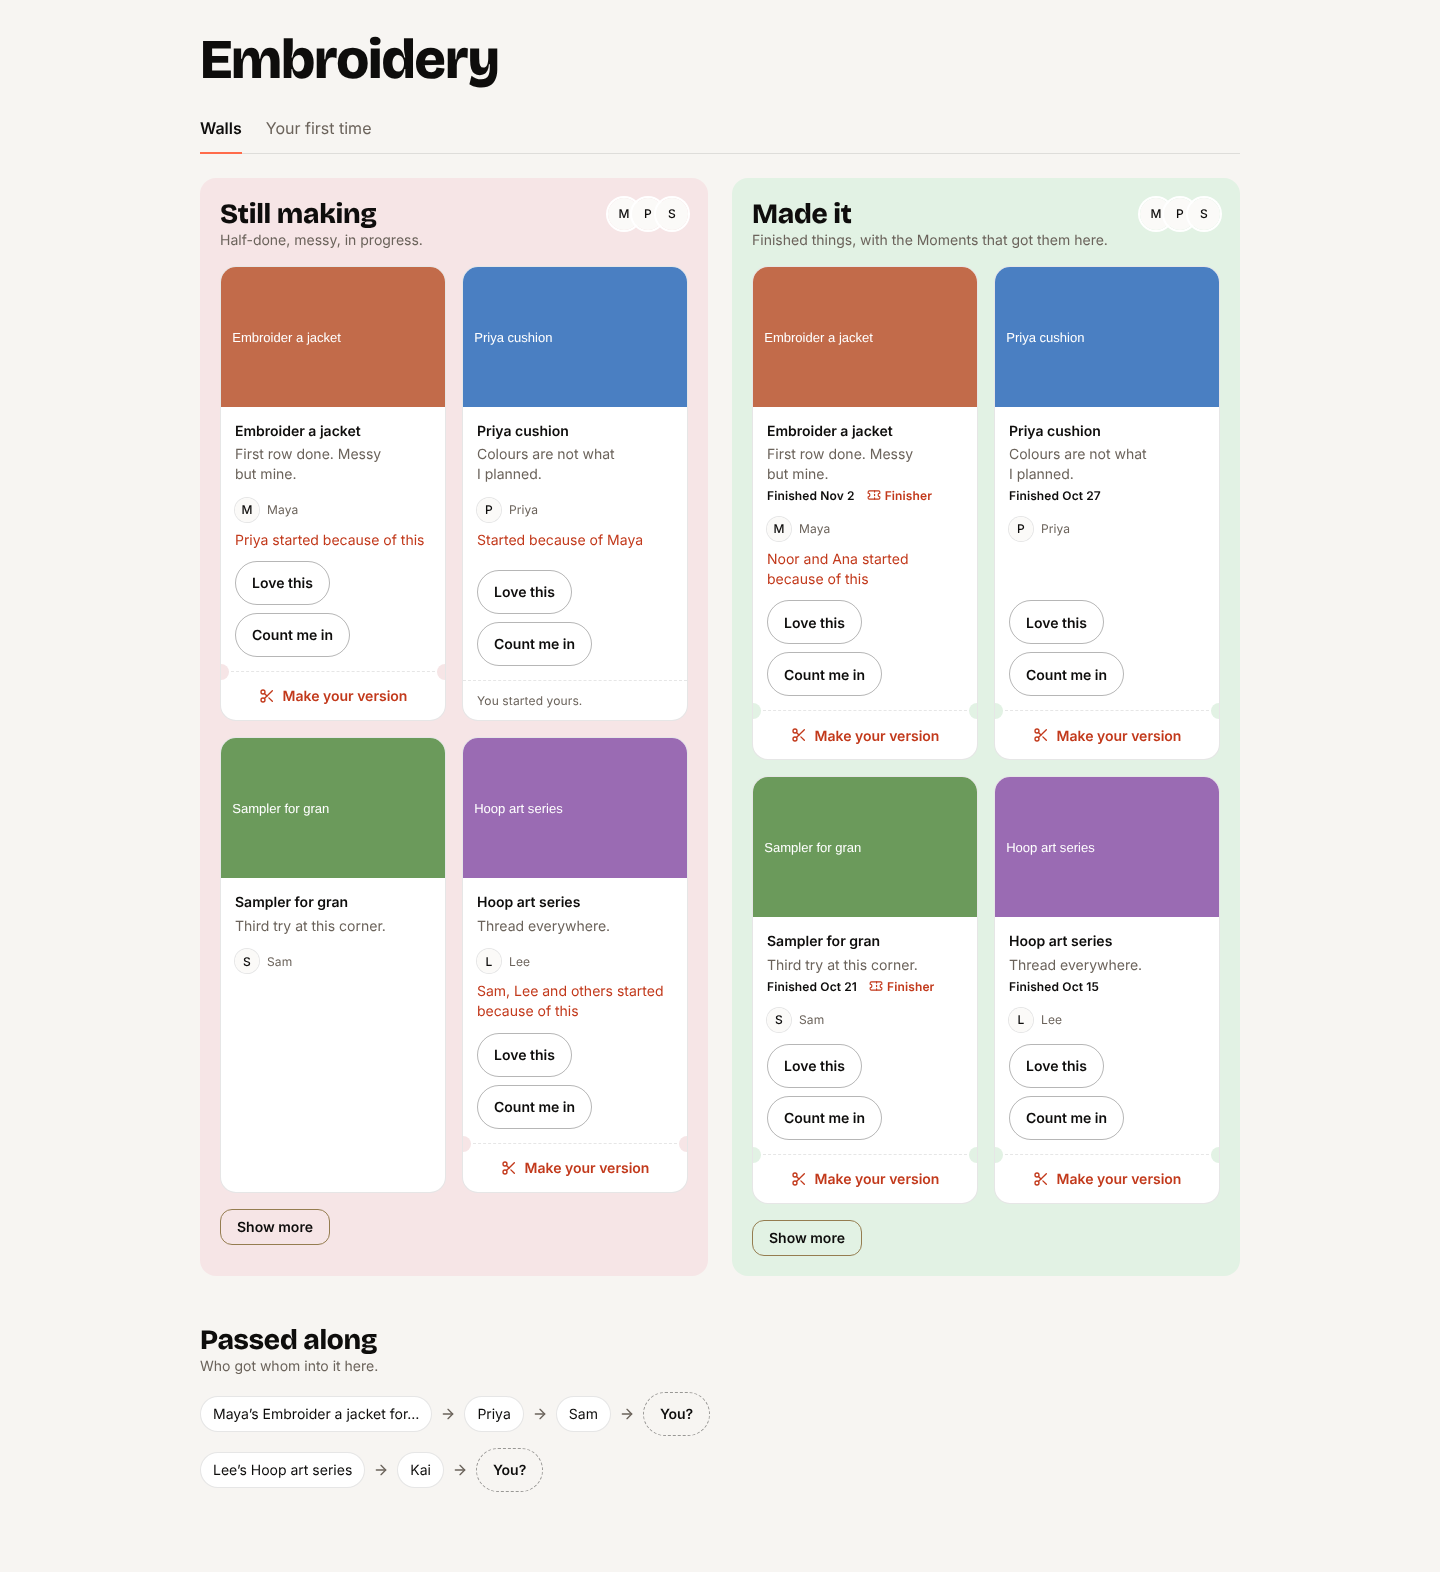
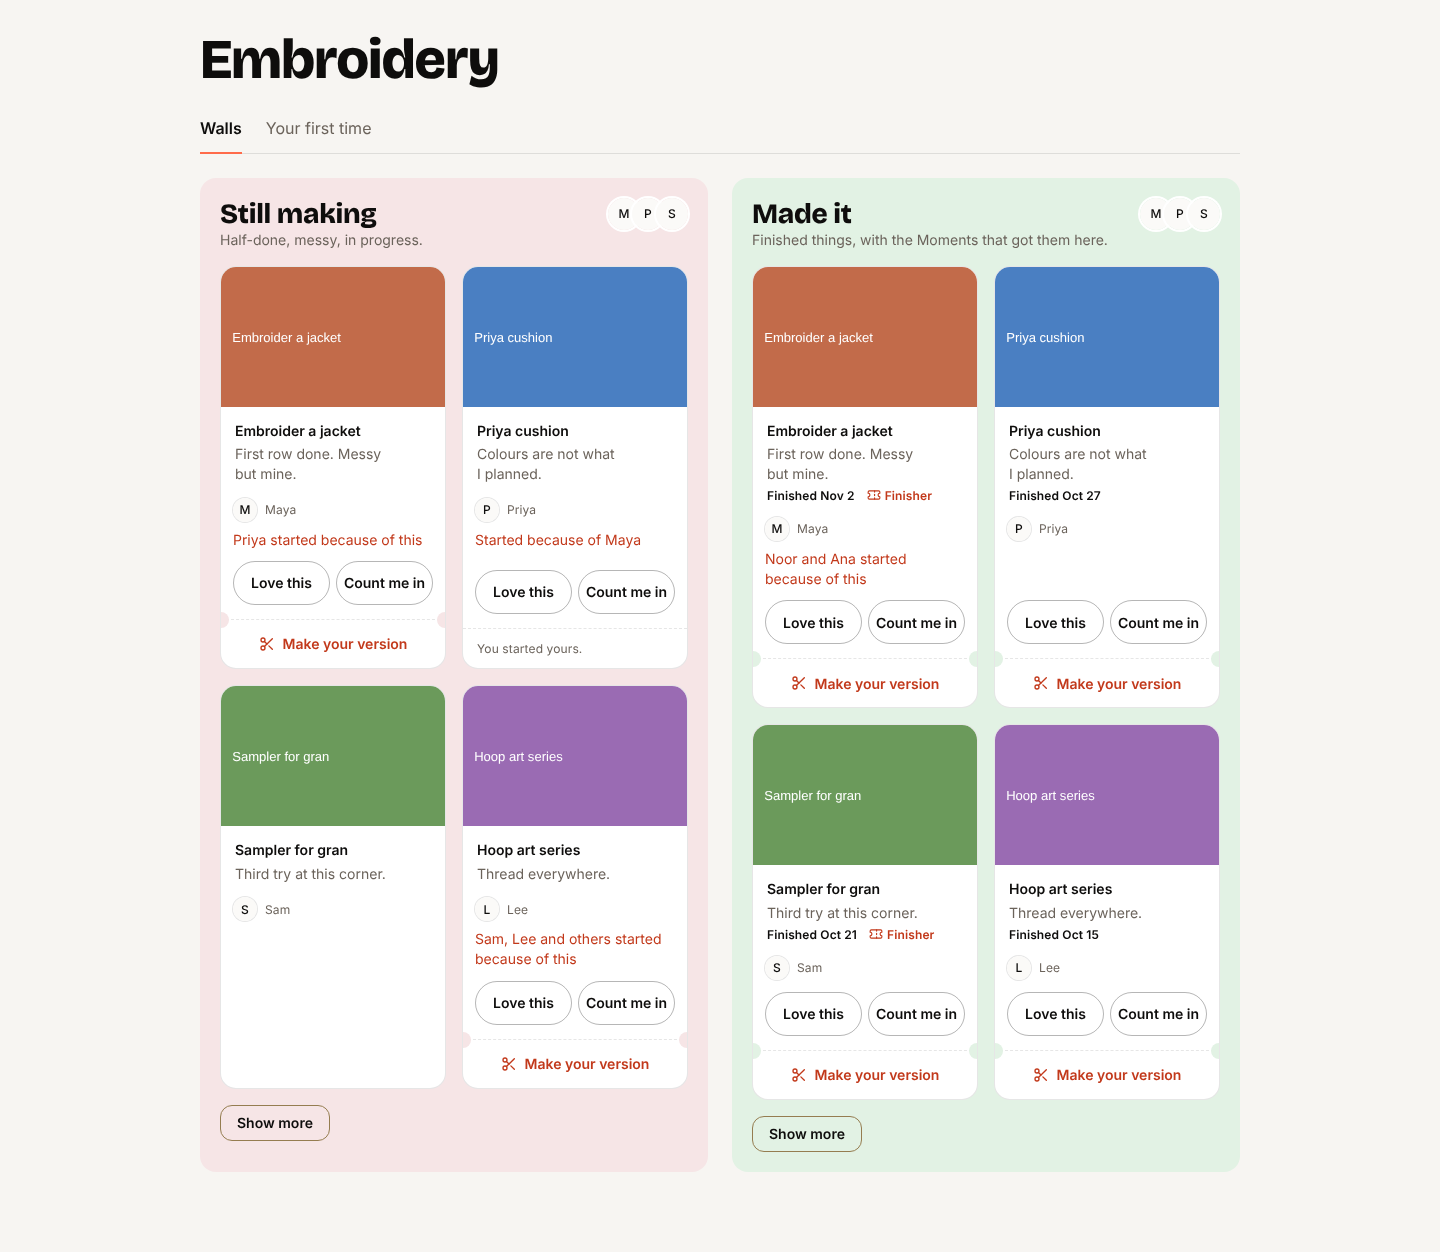
Wall cards: Love this and Count me in on one row; glossary: when You started yours shows
Claude-Session: https://claude.ai/code/session_018oaVFK8uX8Z3PfPV6BboAk

diff --git a/src/app/components/corners/WallCard.tsx b/src/app/components/corners/WallCard.tsx
@@ -24,17 +24,17 @@ export const WALL_COPY = {
 
 const initials = (name: string) => name.split(" ").map((p) => p[0]).join("").slice(0, 2).toUpperCase();
 
-/** Love this and Count me in. No counts anywhere on a wall card. */
+/** Love this and Count me in, side by side on one row at every width (tight side padding, no wrapping, 44px tall at least). No counts anywhere on a wall card. */
 function Reactions({ postId, name }: { postId: number; name: string }) {
   const { mine, toggle } = useReactionState(postId);
   const loved = mine.includes("love");
   const going = mine.includes("in");
   return (
-    <div className="flex flex-wrap gap-2">
-      <PillButton variant="outline" aria-pressed={loved} aria-label={loved ? `Loved ${name}’s Moment. Tap to undo` : `Love this, ${name}’s Moment`} className="min-h-11 px-4 text-small" onClick={() => toggle("love")}>
+    <div className="flex flex-nowrap gap-1.5" data-reactions>
+      <PillButton variant="outline" aria-pressed={loved} aria-label={loved ? `Loved ${name}’s Moment. Tap to undo` : `Love this, ${name}’s Moment`} className="min-h-11 min-w-0 flex-1 px-2 text-small" onClick={() => toggle("love")}>
         {loved ? "Loved" : "Love this"}
       </PillButton>
-      <PillButton variant="outline" aria-pressed={going} aria-label={going ? "You’re in. Tap to undo" : `Count me in, ${name}’s Moment`} className="min-h-11 px-4 text-small" onClick={() => toggle("in")}>
+      <PillButton variant="outline" aria-pressed={going} aria-label={going ? "You’re in. Tap to undo" : `Count me in, ${name}’s Moment`} className="min-h-11 min-w-0 flex-1 px-2 text-small" onClick={() => toggle("in")}>
         {going ? "You’re in" : "Count me in"}
       </PillButton>
     </div>
@@ -87,7 +87,7 @@ export function WallCard({
           )}
         </span>
       </button>
-      <div className="flex flex-1 flex-col gap-2 px-3.5 pb-3.5">
+      <div className="flex flex-1 flex-col gap-2 px-3 pb-3.5">
         <span className="flex items-center gap-2 text-caption text-muted-foreground">
           <Avatar className="size-6">
             {card.authorAvatarUrl && <AvatarImage src={card.authorAvatarUrl} alt="" />}

diff --git a/src/app/components/corners/CornerWalls.test.tsx b/src/app/components/corners/CornerWalls.test.tsx
@@ -107,6 +107,22 @@ describe("CornerWalls", () => {
     expect(within(byId(4)).queryByText("Finisher")).toBeNull();
   });
 
+  it("keeps Love this and Count me in on one row that never wraps, each at least 44px tall", async () => {
+    wall([card({ postId: 1 })], []);
+    setup();
+    await screen.findByRole("heading", { name: "Still making" });
+    const row = document.querySelector<HTMLElement>("[data-reactions]")!;
+    expect(row.className).toContain("flex-nowrap");
+    expect(row.className).not.toContain("flex-wrap ");
+    const buttons = within(row).getAllByRole("button");
+    expect(buttons.map((b) => b.textContent)).toEqual(["Love this", "Count me in"]);
+    for (const b of buttons) {
+      expect(b.className).toContain("min-h-11");
+      expect(b.className).toContain("whitespace-nowrap");
+      expect(b.className).toContain("px-2");
+    }
+  });
+
   it("puts the started-because lines in the accent text colour at the small size", async () => {
     wall([card({ startedBecause: ["Sam"], inspiredByName: "Maya", inspiredByPostId: 9 })], []);
     setup();

diff --git a/docs/glossary.md b/docs/glossary.md
@@ -985,7 +985,7 @@ A Corner page shows what people are making, finished or not, and lets you start 
 | Finished things, with the Moments that got them here. | The line under the Made it heading |
 | Finished {date} | On a Made it card, with the date from `dates.ts` |
 | Make your version | The tear-off strip on a wall card (not on your own Moment). Starts your own Pursuit inspired by that Moment. Different from Count me in, which leads to doing it together |
-| You started yours. | Replaces the strip once you have started your own because of that Moment. It only shows once your Moment is on the wall, which is about 2 hours after you post it (the 2 hour hold). Replaces "Yours is on Still making." (founder, Nov 8, 2026) |
+| You started yours. | Replaces the strip on the source card as soon as you start your own Pursuit because of that Moment. The hold of about 2 hours (the 2 hour hold on new Moments) only delays your own card appearing on Still making, once you post a Moment to it. Replaces "Yours is on Still making." (founder, Nov 8, 2026) |
 | Finisher | On a Made it card, with the Stub icon, when the Pursuit's owner holds its Finisher Stub |
 | Started because of {Name} | On a card whose Pursuit started because of another person's Moment you may see, in the accent text colour at the small text size. Shown only when you can open that Moment |
 | {A} started because of this / {A} and {B} started because of this / {A}, {B} and others started because of this | On a card whose Moment other people started a Pursuit because of. Never a number |
